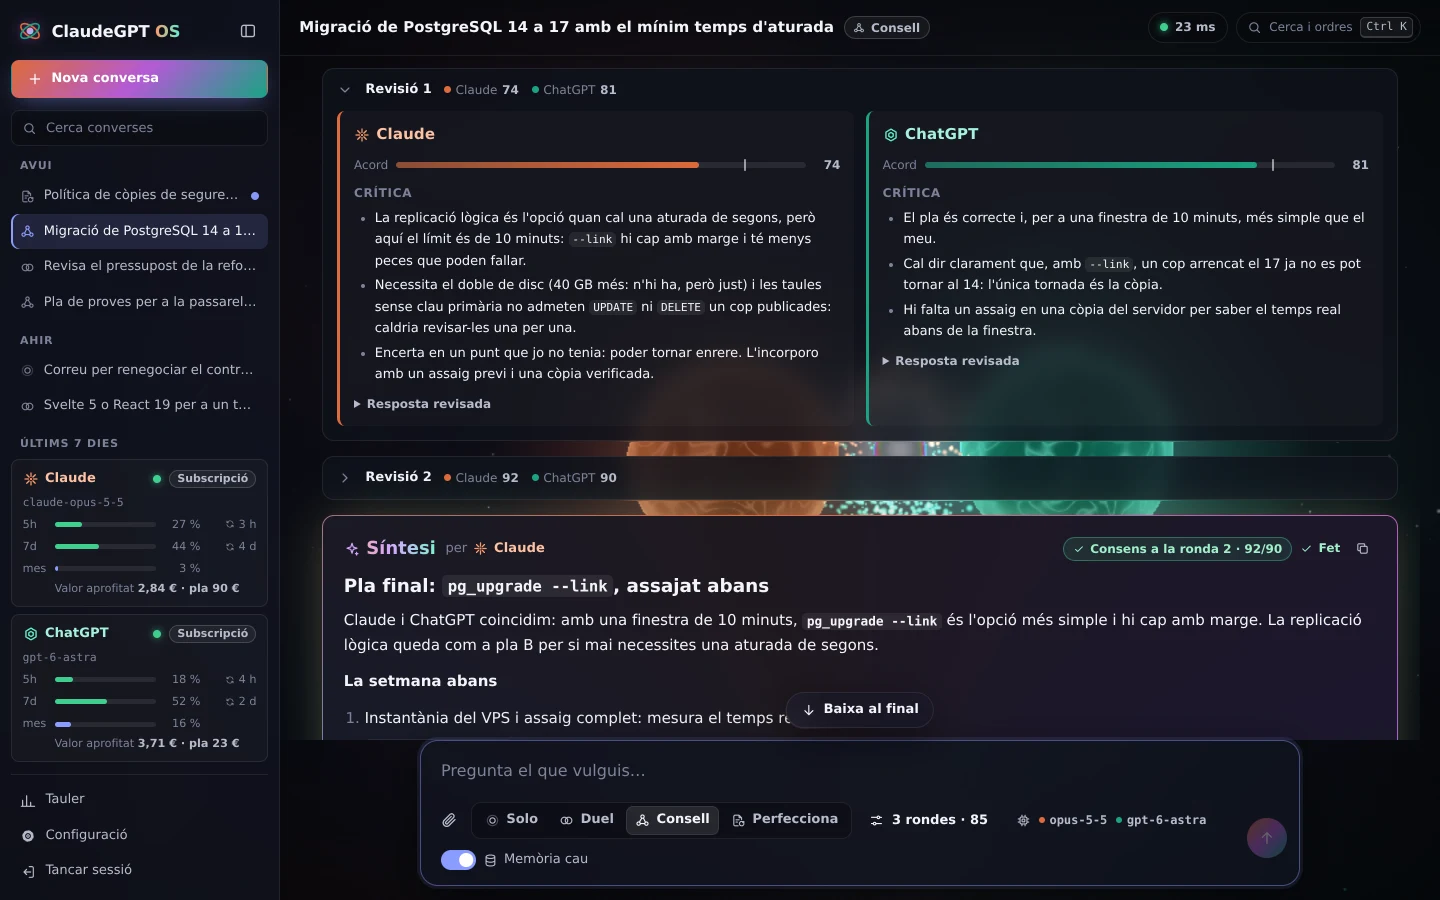
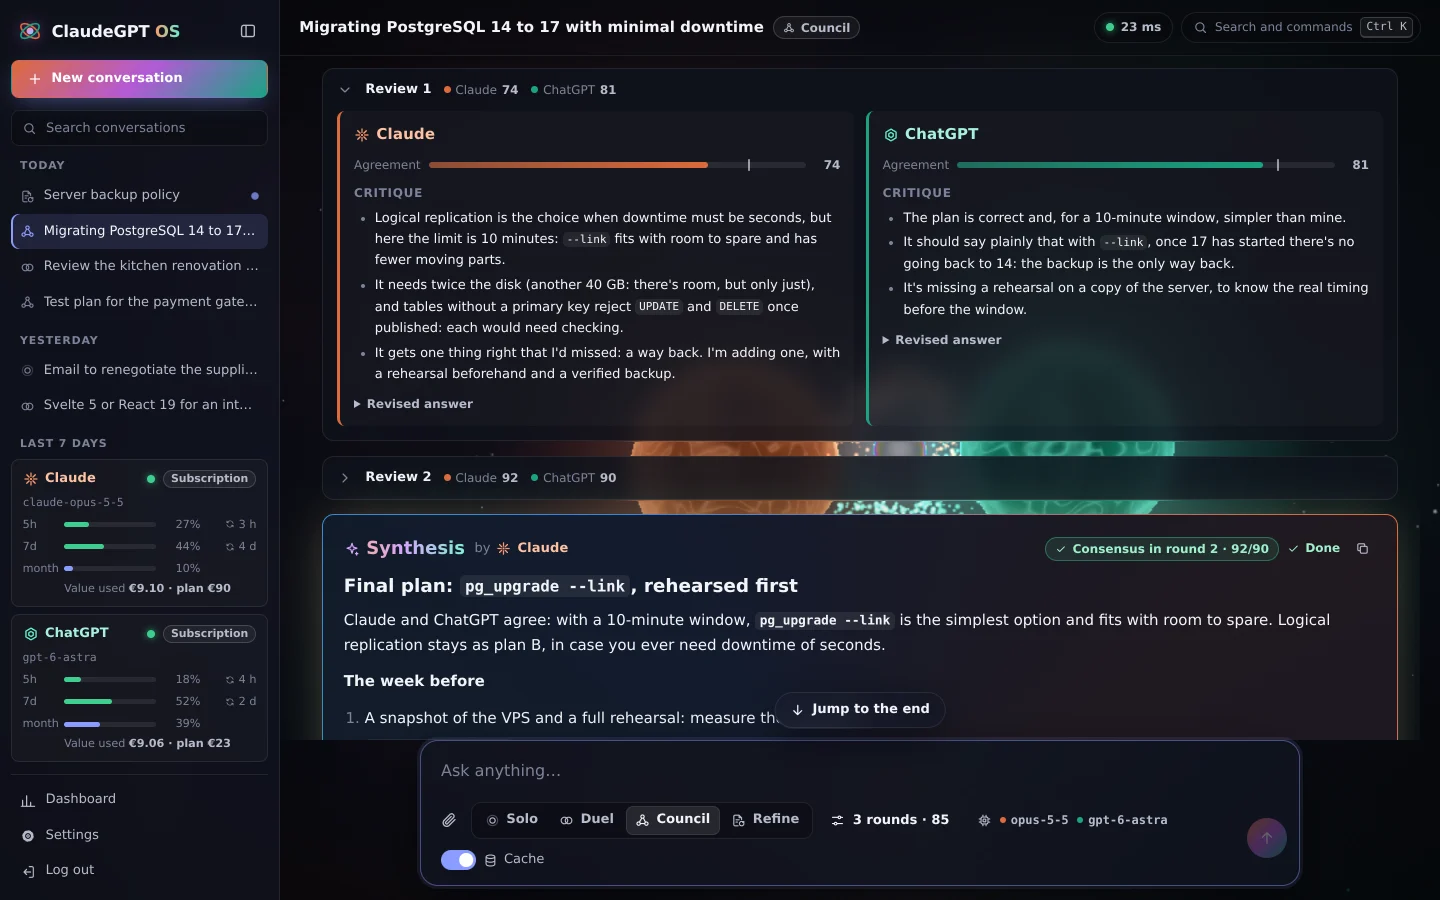
docs: the README screenshots in English, and the showcase's views named in English
- Every screenshot of the README, the phone composite and the social preview
  show the English interface with the English example conversations
  (?lang=en).
- The showcase's views are start, council, attachments, refine, dashboard
  and settings.
- The usage rows of the sidebar fit "month", the longest window label of the
  three languages.
- The English council example has a comparison table narrow enough not to
  break words.

Claude-Session: https://claude.ai/code/session_015MEUyaiwuwvEjRe6GwUYaL

diff --git a/web/src/showcase/showcase.ts b/web/src/showcase/showcase.ts
@@ -3,12 +3,12 @@
 // to look at the interface without a backend or spending tokens.
 // `?lang=` picks the language of the interface and of the examples: en (default), es or ca.
 // `?shot=` picks the view:
-//   inici        a new conversation (the four modes)
-//   consell      a council debate that reached consensus (default)
-//   adjunts      a duel over a PDF, with Claude's check for ChatGPT on the subscription
-//   perfecciona  a Refine turn in its fourth round
-//   tauler       the usage dashboard
-//   configuracio the settings, over the council
+//   start        a new conversation (the four modes)
+//   council      a council debate that reached consensus (default)
+//   attachments  a duel over a PDF, with Claude's check for ChatGPT on the subscription
+//   refine       a Refine turn in its fourth round
+//   dashboard    the usage dashboard
+//   settings     the settings, over the council
 // `?narrow` opens the sidebar as on a phone (use a narrow window). The live turns replay
 // their events at once; nothing streams after the page has loaded.
 
@@ -36,16 +36,16 @@ import { live, ShowcaseSocket, showcaseApi } from './server';
 const FILES = import.meta.glob<string>(['./content/*/*.pdf', './content/*/*.webp'], { query: '?url', import: 'default', eager: true });
 
 const ROUTES: Record<string, string> = {
-  inici: '#/',
-  consell: `#/c/${DEBATE_ID}`,
-  adjunts: `#/c/${PDF_ID}`,
-  perfecciona: `#/c/${REFINE_ID}`,
-  tauler: '#/tauler',
-  configuracio: `#/c/${DEBATE_ID}`,
+  start: '#/',
+  council: `#/c/${DEBATE_ID}`,
+  attachments: `#/c/${PDF_ID}`,
+  refine: `#/c/${REFINE_ID}`,
+  dashboard: '#/tauler',
+  settings: `#/c/${DEBATE_ID}`,
 };
 
 const params = new URLSearchParams(location.search);
-const shot = params.get('shot') ?? 'consell';
+const shot = params.get('shot') ?? 'council';
 const route = ROUTES[shot];
 if (!route) throw new Error(`Unknown shot «${shot}»: ${Object.keys(ROUTES).join(', ')}`);
 
@@ -127,5 +127,5 @@ function when(ready: () => boolean, then: () => void): void {
   }, 50);
 }
 
-if (shot === 'configuracio') when(() => app.settingsStatus === 'ready', () => (app.settingsOpen = true));
+if (shot === 'settings') when(() => app.settingsStatus === 'ready', () => (app.settingsOpen = true));
 if (params.has('narrow')) when(() => app.auth === 'ready', () => (app.sidebarOpen = true));

diff --git a/web/src/components/ProviderBadge.svelte b/web/src/components/ProviderBadge.svelte
@@ -157,7 +157,7 @@
 
   .limit {
     display: grid;
-    grid-template-columns: 1.6rem 1fr 2.4rem 3.1rem;
+    grid-template-columns: 2.2rem 1fr 2.4rem 3.1rem;
     align-items: center;
     gap: 0.4rem;
     font-size: 0.7rem;
@@ -207,10 +207,11 @@
     cursor: help;
   }
 
-  /* Amounts under the bar, aligned with it (or next to "mes" when there is no bar). */
+  /* Amounts under the bar, aligned with it (or next to "month" when there is no bar). The
+     first column fits the longest window label of the three languages ("month"). */
   .caption {
     display: grid;
-    grid-template-columns: 1.6rem minmax(0, 1fr);
+    grid-template-columns: 2.2rem minmax(0, 1fr);
     gap: 0.4rem;
     font-size: 0.7rem;
     color: var(--text-muted);

diff --git a/web/src/showcase/index.html b/web/src/showcase/index.html
@@ -13,7 +13,7 @@
     <!-- Development harness: the whole app against a fake server with example
          conversations in English, Spanish and Catalan (showcase.ts), for the README
          screenshots. Not part of the production build (vite builds only index.html). Open
-         /src/showcase/index.html?shot=consell&lang=en with `npm run dev`. -->
+         /src/showcase/index.html?shot=council&lang=en with `npm run dev`. -->
     <div id="app"></div>
     <script type="module" src="./showcase.ts"></script>
   </body>

diff --git a/README.md b/README.md
@@ -122,7 +122,7 @@ With `AOS_CLAUDE_MODE=cli` it uses the `claude` CLI you have installed and logge
 | Types (strict) | `uv run mypy` |
 | Frontend: check, tests, build | `cd web && npm run check && npm test && npm run build` |
 | Frontend with hot reload | `cd web && npm run dev`, with the backend on `uv run agentic-os serve --dev` and `AOS_EXTRA_ORIGINS='["http://localhost:5173"]'` |
-| Showcase with example conversations, without a backend | `cd web && npm run dev` and open `http://localhost:5173/src/showcase/index.html?shot=consell` |
+| Showcase with example conversations, without a backend | `cd web && npm run dev` and open `http://localhost:5173/src/showcase/index.html?shot=council` |
 
 The frontend tests (vitest) cover the logic and also the components, which are mounted in jsdom with `web/src/lib/test-render.ts`.
 
@@ -130,7 +130,7 @@ The backend tests also run on macOS (those of the deployment scripts only run on
 
 The interface's texts live in `web/src/lib/i18n/areas/` and the server's in `src/agentic_os/locales/`, in English, Spanish and Catalan ([ADR 0011](docs/adr/0011-internationalization.md)). The tests check the Catalan texts by default, and the i18n tests check the other two languages.
 
-The showcase (`web/src/showcase/`) mounts the whole app against a fake server with example conversations: a Council, a Duel over a PDF and a Refine turn in progress. `?shot=` picks the view: `inici` (a new conversation), `consell` (the Council), `adjunts` (the attachments), `perfecciona` (Refine), `tauler` (the dashboard) or `configuracio` (the settings); `?lang=` picks the language (`en`, `es` or `ca`). Use it to review the interface without a backend and to retake this README's screenshots.
+The showcase (`web/src/showcase/`) mounts the whole app against a fake server with example conversations: a Council, a Duel over a PDF and a Refine turn in progress. `?shot=` picks the view: `start` (a new conversation), `council` (the Council), `attachments` (the attachments), `refine` (Refine), `dashboard` (the dashboard) or `settings` (the settings); `?lang=` picks the language (`en`, `es` or `ca`). Use it to review the interface without a backend and to retake this README's screenshots.
 
 GitHub Actions CI runs the Python checks (3.12 and 3.13), the frontend checks and the Docker image build on every pull request.
 

diff --git a/web/src/showcase/content/en/council.md b/web/src/showcase/content/en/council.md
@@ -22,8 +22,8 @@ With 40 GB and a 10-minute window, the safest option is **`pg_upgrade` with hard
 
 | Option | Downtime | Rollback | Risk |
 | --- | --- | --- | --- |
-| `pg_upgrade --link` | 3–5 min | Only from a backup | Low |
-| Logical replication | < 1 min | Yes: 14 stays live | Medium |
+| `pg_upgrade --link` | 3–5 min | Backup only | Low |
+| Logical replication | < 1 min | Yes, 14 stays up | Medium |
 | `pg_dump` + `pg_restore` | 30–60 min | Yes | Low |
 
 **Steps with logical replication**
